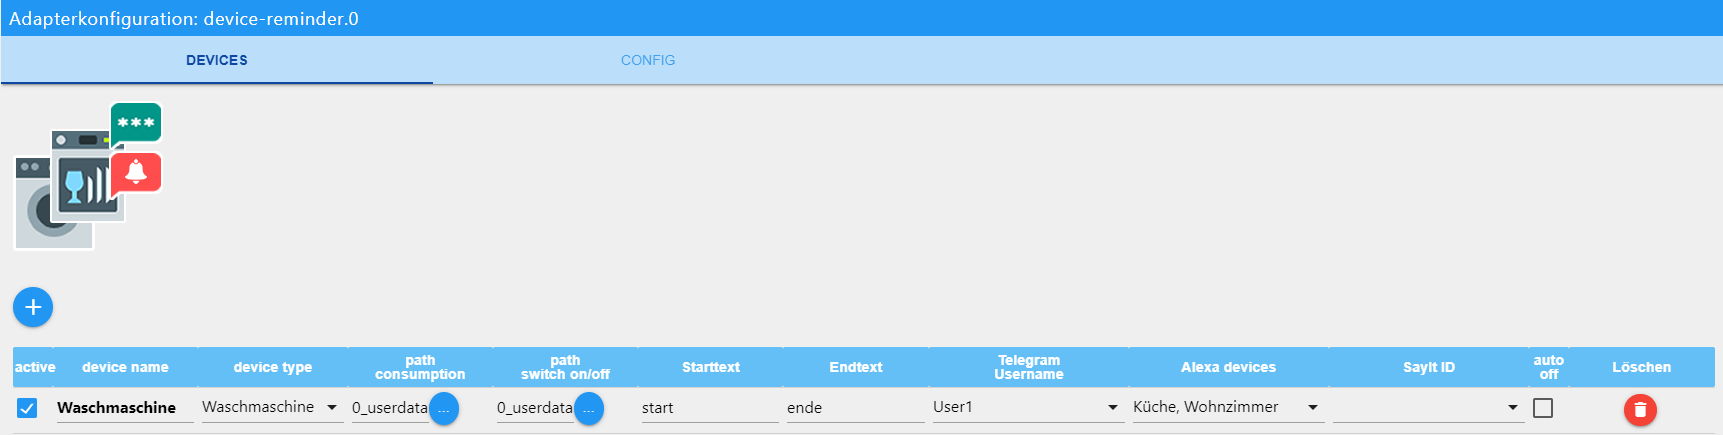
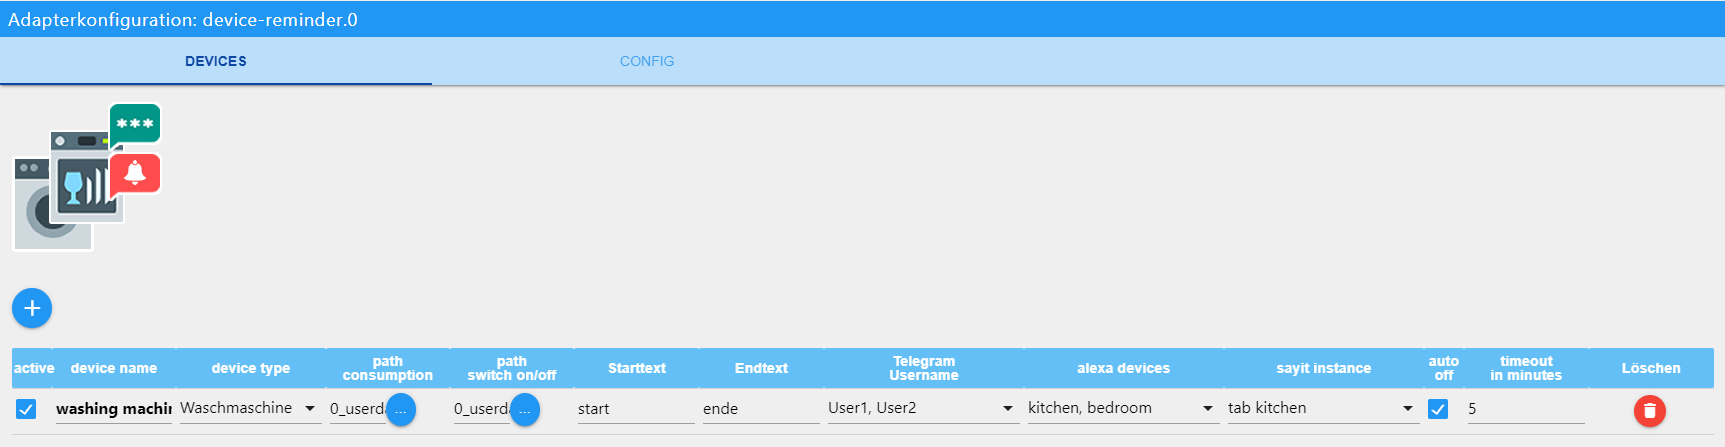
chore: release v0.0.2---all.0
update readme

diff --git a/main.js b/main.js
@@ -7,7 +7,6 @@
 
 /* 
 - wenn maschine vorher abgeschaltet wird, berechnung abbrechen
-- timeout einbringen 
 */
 
 // The adapter-core module gives you access to the core ioBroker functions
@@ -80,6 +79,7 @@ class Template extends utils.Adapter {
                     const obj = element;
                     if (obj.enabled && obj.deviceName !== `` && obj.pathConsumption !== `` && obj.pathSwitch !== ``) {
                         arrObj[id] = await this.funcCreateObject(obj);
+                        await this.stateIni();
                         this.log.debug(`objFinal ${JSON.stringify(arrObj)}`);
                         this.subscribeForeignStates(id);
                         this.log.debug(`subscribe ${JSON.stringify(id)}`);
@@ -174,6 +174,20 @@ class Template extends utils.Adapter {
             return arrTemp;
         };
     };
+
+    async stateIni() {
+        for (const i in arrObj) {
+            let result = await this.getForeignStateAsync(arrObj[i].switchPower);
+            let objSwitch = result.val;
+            this.log.debug(`state objSwitch ${JSON.stringify(objSwitch)}`);
+            if (objSwitch) {
+                await this.setStateAsync(arrObj[i].pfadZustand, "standby", true);
+            } else {
+                await this.setStateAsync(arrObj[i].pfadZustand, "ausgeschaltet", true);
+            } await this.setStateAsync(arrObj[i].gesamtZeit, "00:00:00", true);
+        };
+    };
+
 
 
     /**
@@ -414,8 +428,10 @@ class Template extends utils.Adapter {
         try {
             // Here you must clear all timeouts or intervals that may still be active
             for (const i in arrObj) {
-                clearTimeout(arrObj[i].timeout);
-                this.log.debug(`timeout ${arrObj[i].deviceName}: was deleted, state: ${arrObj[i].timeout}`);
+                if (arrObj[i].timeout) {
+                    clearTimeout(arrObj[i].timeout);
+                    this.log.debug(`timeout ${arrObj[i].geraeteName}: was deleted`);
+                };
             };
             callback();
         } catch (e) {
@@ -503,7 +519,7 @@ class Template extends utils.Adapter {
                         clearTimeout(obj.timeout);
                         obj.timeout = null;
                     };
-                    obj.timeout = setTimeout(async() => {  //timeout starten
+                    obj.timeout = setTimeout(async () => {  //timeout starten
                         await this.setForeignStateAsync(obj.switchPower, false); // Geraet ausschalten, falls angewaehlt    
                         await this.setStateAsync(obj.pfadZustand, `ausgeschaltet`, true); // Status in DP schreiben
                     }, obj.timeoutInMS);

diff --git a/README.md b/README.md
@@ -27,9 +27,9 @@ Der refresh Intervall vom "Live-Verbrauchswert (heißt bei den meisten Geräten 
 
 # Anleitung
 ## Alexa erstellen
-Wenn man Alexa intregrieren möchte muss man diese **zwingend zuerst** auf der Config Seite der device-reminder Instanz anlegen.
+Wenn man Alexa integrieren möchte muss man diese **zwingend zuerst** auf der Config Seite der device-reminder Instanz anlegen.
 
-![configAlexa.png](admin/configAlexa.png)
+![alexa.png](admin/alexa.png)
 Zuerst muss über das + ein neuer Eintrag erzeugt werden. 
 - **active**: Ist standardmäßig aktiviert. Hier kann man eine Alexa vorrübergehend deaktivieren.
 - **alexa name**: Frei wählbarer Name, auch Sonderzeichen sind möglich
@@ -43,6 +43,20 @@ Mit den 4 letzten Feldern kann ein Zeitraum erstellt werden, in dem eure Alexa S
 <p></p>
 Habt ihr eure Alexa(s) angelegt, muss auf "Speichern und Schliessen" geklickt werden. Danach erscheint eure Alexa auf der "Devices Seite" und kann per Klick dem jeweiligen Gerät zugeordnet werden.
 <p></p>
+
+## SayIt device erstellen
+Wenn man sayIt (text-to-speech) integrieren möchte muss man **zwingend zuerst** ein device auf der Config Seite der device-reminder Instanz anlegen.
+
+![sayit.png](admin/sayit.png)
+Zuerst muss über das + ein neuer Eintrag erzeugt werden.
+- **active**: Ist standardmäßig aktiviert. Hier kann man ein SayIt-device vorrübergehend deaktivieren.
+- **sayit name**: Frei wählbarer Name, auch Sonderzeichen sind möglich
+- **sayit path"../text"**: den Datenpunkt "text" im jeweiligen sayIt device Ordner auswählen. Hier wird die Textausgabe hingesendet.
+- **sayit volume 0-100**: *optional* hier kann man eine Lautstärke vorgeben (default: 50). Werte zwischen 0 und 100 sind möglich.
+- **"time active hour"**: Startzeit in Stunden
+- **"time active min"**: Startzeit in Minuten
+- **"time inactive hour"**: Endzeit in Stunden
+- **"time inactive min"**: Endzeit in Minuten
 
 ## Device anlegen und konfigurieren
 ![devices.png](admin/devices.png)
@@ -62,6 +76,7 @@ Auch hier muss zuerst über das + ein neuer Eintrag erstellt werden.
 - **Alexa devices**: alle zuvor erstellen Alexas werden hier aufgelistet und können per Klick hinzugefügt werden.
 - **SayIt ID**: derzeit noch nicht implementiert
 - **auto off**: Wenn angewählt, schaltet sich die Steckdose nach Beendigung des Vorgangs automatisch ab
+- **timer**: Hier kann optional ein timeout in **Minuten** eingegeben werden. Nach Ablauf des timeouts wird die Steckdose, *wenn auto off denn altiviert ist*, abgeschaltet. Die Ende Benachrichtigung des Gerätes bleibt von einem timeout jedoch unberührt!
 
 Nachdem nun auf "Speichern und schliessen" geklickt wurde, wird unter Objekte -> device-reminder nun für jedes neu angelegte Device ein Ordner erstellt, in dem nochmal der aktuelle Zustand und Verbrauch (wird aus dem patch consumption geholt) angezeigt wird.
 
@@ -77,9 +92,8 @@ Nachdem nun auf "Speichern und schliessen" geklickt wurde, wird unter Objekte ->
 	### __WORK IN PROGRESS__
 -->
 
-### 0.0.2-alpha.7 (2020-10-22)
-* (xenon-s) fix
-
+### 0.0.2---all.0 (2020-10-23)
+* (xenon-s) update readme
 
 ### 0.0.1 (2020-10-20)
 * (xenon-s) initial commit
